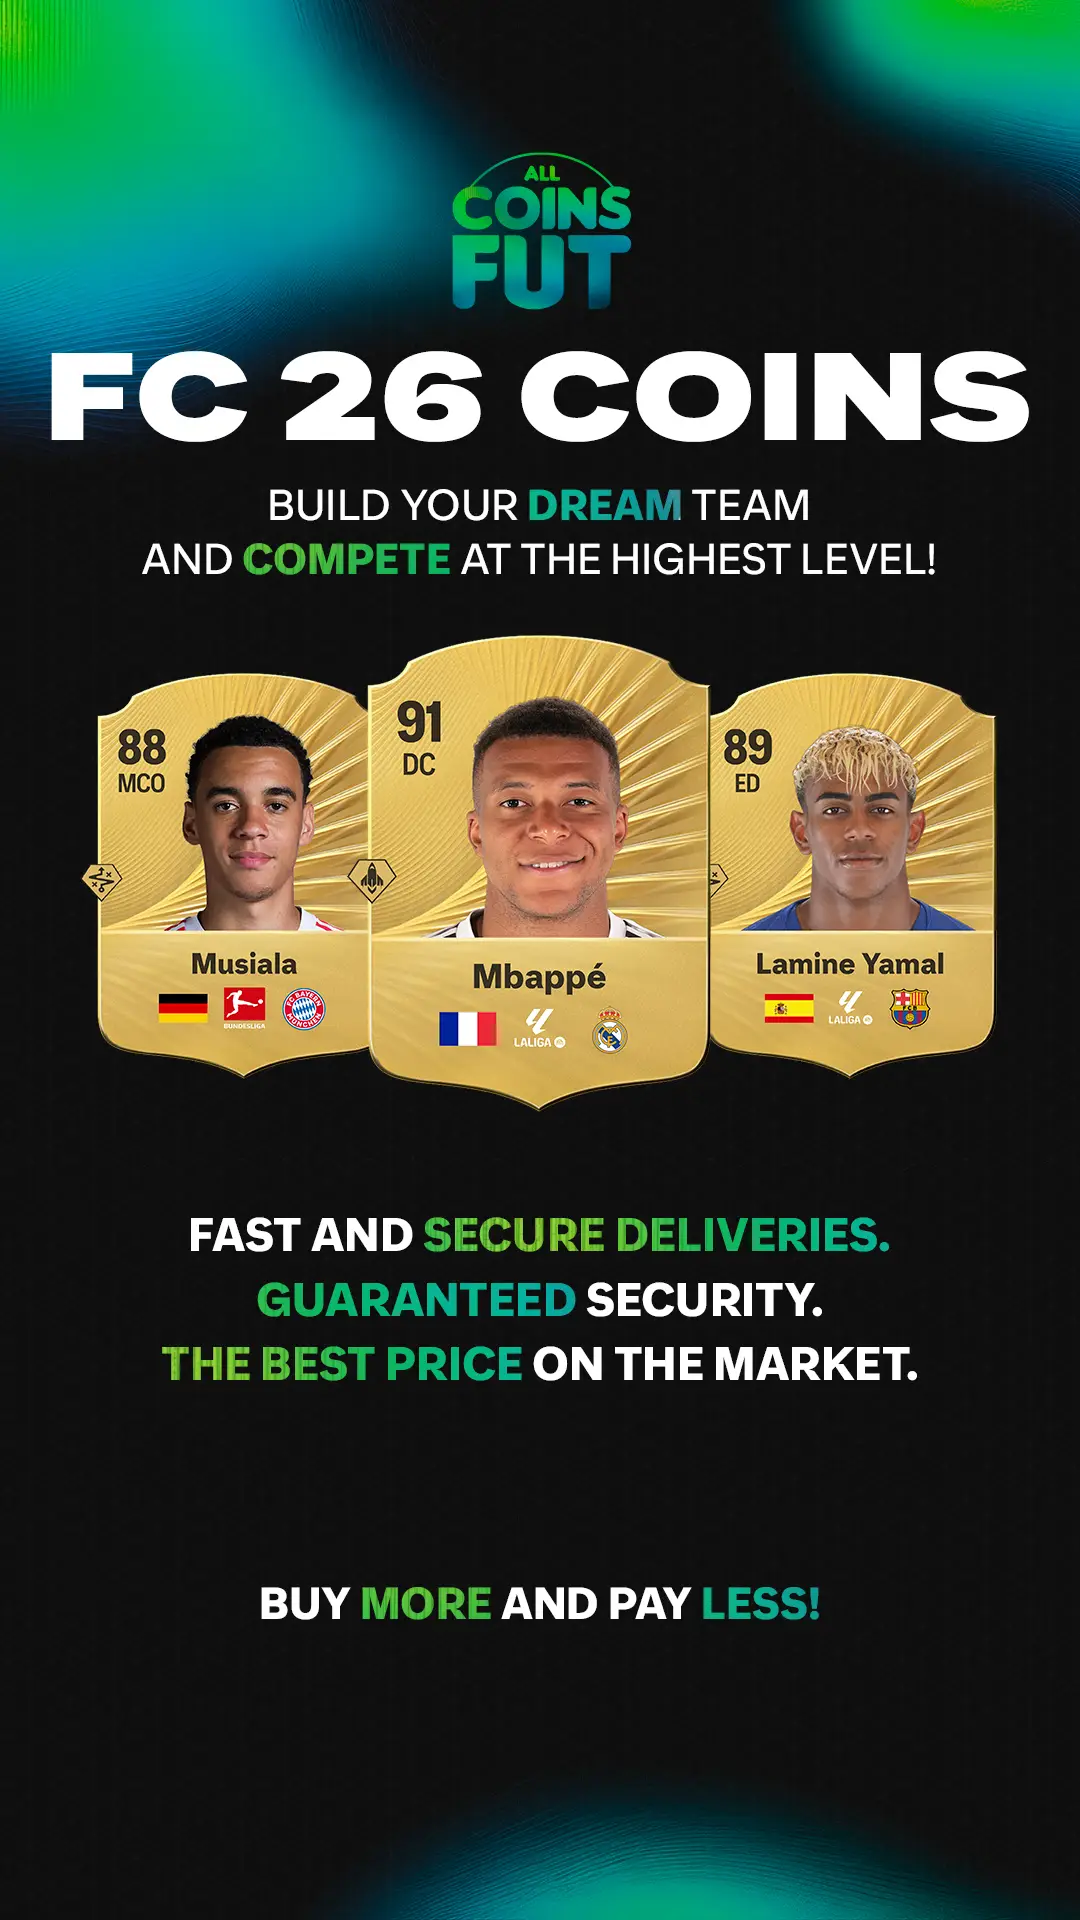
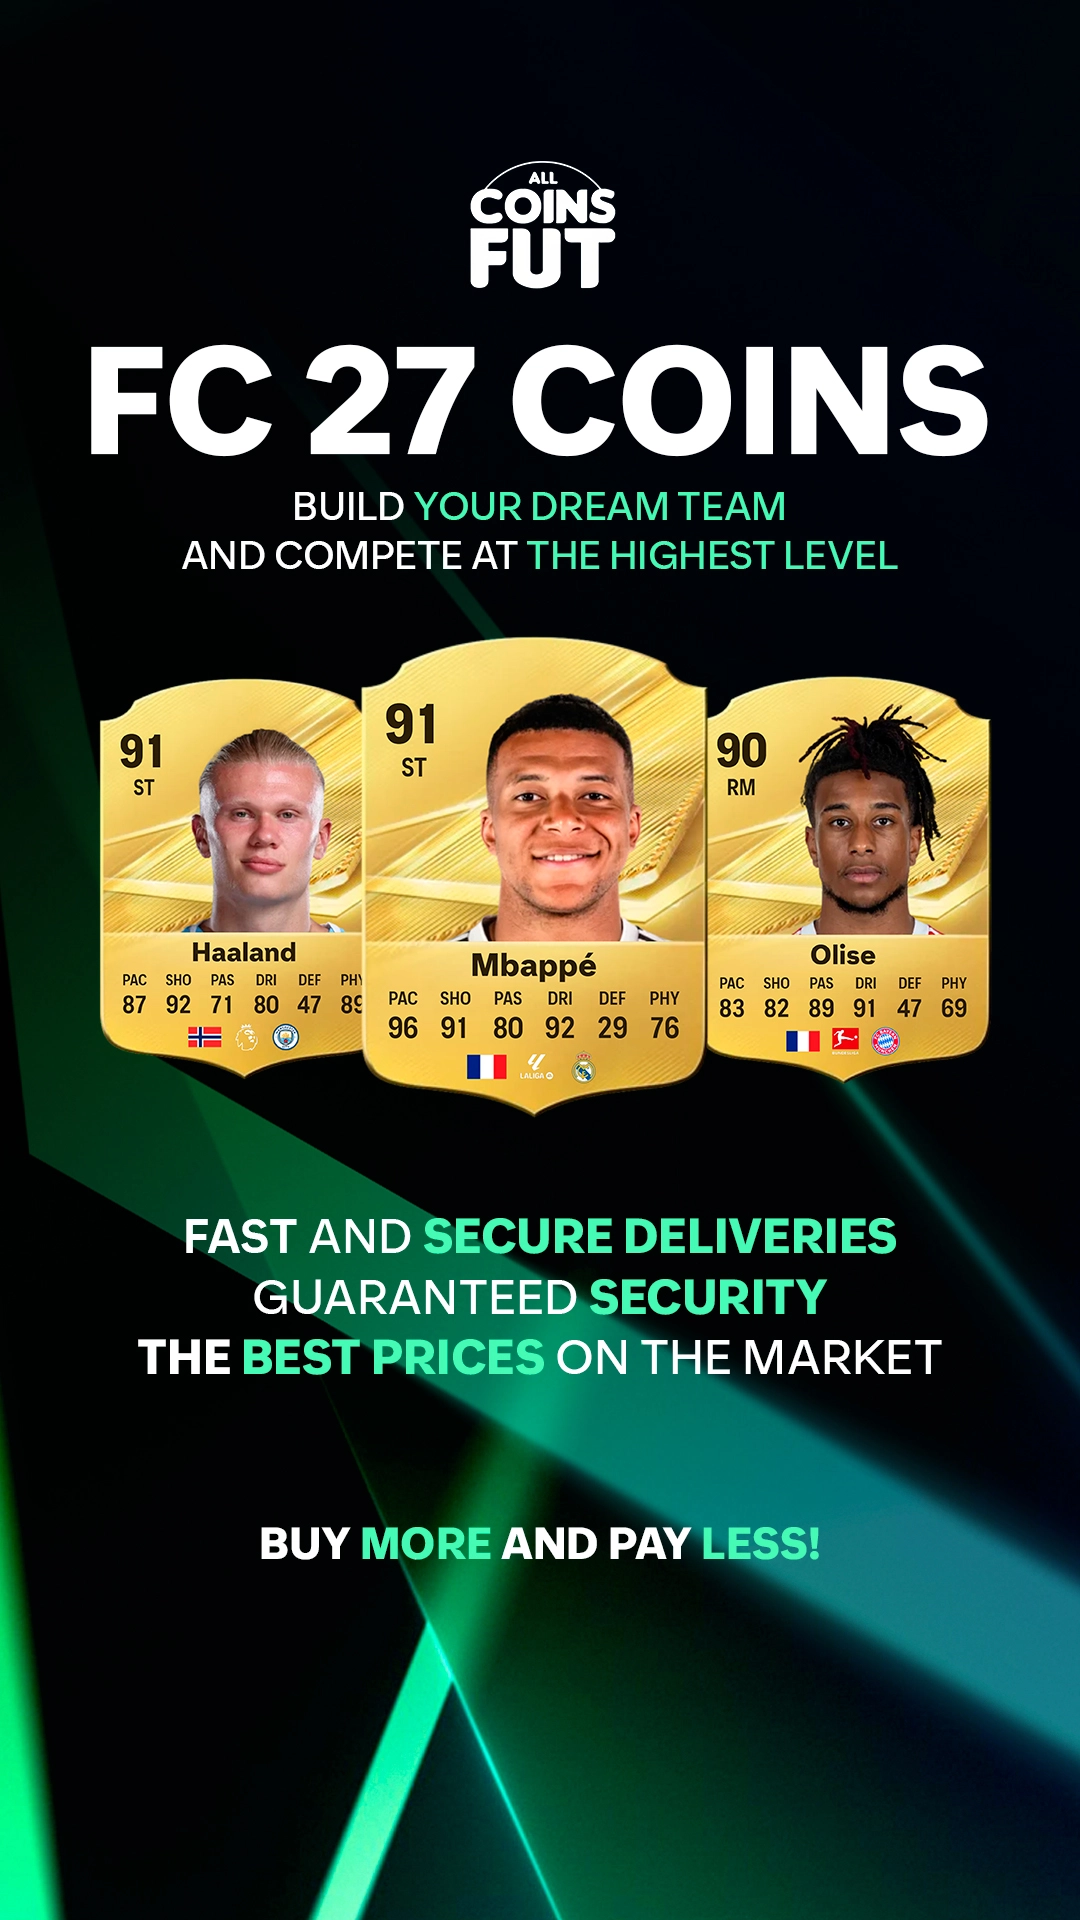
replaced info for FC27

diff --git a/src/Translations.js b/src/Translations.js
@@ -32,7 +32,7 @@ const translations = {
     "answer3": "We offer various payment methods for each country so you can pay in your local currency. To see the available options, you can check the homepage of our website, where most of them are listed, or ask us directly on WhatsApp!",
     
     "faq4": "Is this safe?",
-    "answer4": "We have been selling coins since FIFA 18, with over 8 years of experience. We have completed over 9,000 sales, and every year we deliver nearly 1 billion coins. If you still have doubts, you can also check our 7+ highlighted stories of 'Customers' on our Instagram, where we have 15k+ followers and showcase just some of our sales!",
+    "answer4": "We have been selling coins since FIFA 18. We have completed over 9,000 sales, and every year we deliver nearly 1 billion coins. If you still have doubts, you can also check our 7+ highlighted stories of 'Customers' on our Instagram, where we have 15k+ followers and showcase just some of our sales!",
     
     "faq5": "Do you also sell players?",
     "answer5": "Yes and no. We don’t sell players directly, but we do sell the amount of coins you need to buy the player you want or complete the SBC you’re aiming for. In other words, you can buy coins and then use them to sign the player you’re looking for.",
@@ -67,9 +67,9 @@ const translations = {
     "sellCoins" : "To start selling your coins, please contact us through WhatsApp.",
     "aboutUs" : "About Us",
     "reason1": "+9.000 sales made",
-    "reason2": "+9 years of experience",
-    "reason3": "+3.400 satisfied customers",
-    "reason4": "+1800 Millon coins delivered",
+    "reason2": "+12 years of experience",
+    "reason3": "+3.800 satisfied customers",
+    "reason4": "+2600 Millon coins delivered",
     "paso" : "STEP"
 },
   es: {
@@ -103,7 +103,7 @@ const translations = {
       "answer3": "Ofrecemos diversos métodos de pago para cada país, para que puedas pagar en tu moneda local. Para ver las opciones disponibles, puedes ver el inicio de nuestra página que allí aparecen la mayoría, o preguntándonos directamente en nuestro Whatsapp!",
 
       "faq4": "¿Esto es algo seguro?",
-      "answer4" : "Vendemos monedas desde el FIFA 18, contando con +8 años de experiencia. Tenemos +9000 ventas realizadas, y todos los años entregamos cerca de 1000 millones de monedas. Por si todavía desconfías, también puedes ver nuestras +7 historias destacadas de “Clientes” en nuestro Instagram, donde contamos con +15k de seguidores, y registramos solo algunas de nuestras ventas!",
+      "answer4" : "Vendemos monedas desde el FIFA 18. Tenemos +9000 ventas realizadas, y todos los años entregamos cerca de 1000 millones de monedas. Por si todavía desconfías, también puedes ver nuestras +7 historias destacadas de “Clientes” en nuestro Instagram, donde contamos con +15k de seguidores, y registramos solo algunas de nuestras ventas!",
 
       "faq5": "¿Vendéis también jugadores??",
       "answer5" : "Si pero no. No vendemos jugadores en sí, pero si vendemos la cantidad de monedas que te puede costar ese jugador que deseas o el SBC que quieras hacer. Es decir, puedes comprar monedas para luego con ellas, fichar ese jugador que buscas para tu plantilla.",
@@ -137,9 +137,9 @@ const translations = {
       "sellCoins" : "Para comenzar a vender tus monedas, por favor contactanos a través de WhatsApp.",
       "aboutUs" : "Sobre Nosotros",
       "reason1": "+9.000 ventas realizadas",
-      "reason2": "+9 años de experiencia",
-      "reason3": "+3.400 clientes satisfechos",
-      "reason4": "+1800 millones de monedas entregadas",
+      "reason2": "+12 años de experiencia",
+      "reason3": "+3.800 clientes satisfechos",
+      "reason4": "+2600 millones de monedas entregadas",
       "paso" : "PASO"
   }
 };

diff --git a/src/AboutUs.js b/src/AboutUs.js
@@ -11,7 +11,7 @@ export default function AboutUs() {
 
     document.title = 'Conoce cómo nació nuestro negocio de monedas del fifa. All Coins Fut.';
     if (metaDescription) {
-      metaDescription.setAttribute('content', 'Más de 8 años vendiendo monedas del fifa de forma segura. Conoce cómo empezó todo y por qué miles de jugadores nos eligen cada temporada. Somos All Coins Fut.');
+      metaDescription.setAttribute('content', 'Más de 12 años vendiendo monedas del fifa de forma segura. Conoce cómo empezó todo y por qué miles de jugadores nos eligen cada temporada. Somos All Coins Fut.');
     }
 
     return () => {
@@ -29,7 +29,7 @@ export default function AboutUs() {
           {language === "en" ? "About Us" : "Sobre Nosotros"}
         </p>
         <h1 className="text-6xl font-bold text-center text-p1" data-aos="fade-up">
-          Más de 8 años liderando la venta de monedas del fifa.
+          Más de 12 años liderando la venta de monedas del fifa.
         </h1>
 
       <div className="max-w-3xl text-2xl leading-7 text-center flex items-center justify-center flex-col p-6" data-aos="fade-up">
@@ -37,8 +37,7 @@ export default function AboutUs() {
           <>
             <div className="flex flex-col sm:flex-row w-4/5 items-center justify-center gap-4">
               <p className="mb-4 w-full text-left text-3xl sm:p-8">
-                We started with this project <strong>more than 9 years ago</strong>, in FIFA 18. We started with a PlayStation console, 
-                playing and getting our own coins all day, and selling them privately to friends.
+                We started with this project since <strong>FIFA 18</strong>.
               </p>
 
               <img src="Messi.webp" className="w-3/4 sm:w-64 rounded-xl mb-4" alt="Messi" />
@@ -79,7 +78,7 @@ export default function AboutUs() {
               At All Coins Fut you buy fast, safe and with guaranteed personalized attention.<br/>
               1. Proven experience since FIFA 18<br/>
               2. Direct WhatsApp support always active<br/>
-              3. Over one billion coins delivered<br/>
+              3. Over 2.6 billion coins delivered<br/>
               4. Fast deliveries without complications<br/>
               5. Global community of satisfied customers
             </p>
@@ -126,9 +125,7 @@ export default function AboutUs() {
           <>
           <div className="flex flex-col sm:flex-row w-4/5 items-center justify-start gap-4">
                 <p className="mb-4 w-full text-left text-3xl sm:p-8">
-                  Comenzamos con este proyecto hace <strong>más de 9 años</strong>, en FIFA 18. Todo inició con una PlayStation, 
-                  jugando y consiguiendo nuestras propias monedas durante todo el día, para luego venderlas de manera particular 
-                  a amigos y conocidos.
+                  Comenzamos con este proyecto desde <strong>FIFA 18</strong>.
                 </p>
 
                 <img src="Messi.webp" className="w-3/4 sm:w-64 rounded-xl mb-4" alt="Messi" />
@@ -170,7 +167,7 @@ export default function AboutUs() {
               En All Coins Fut compras rápido, seguro y con atención personalizada garantizada.<br/>
               1. Experiencia comprobada desde FIFA 18<br/>
               2. Atención directa por WhatsApp siempre activa<br/>
-              3. Más de mil millones de monedas entregadas<br/>
+              3. Más de 2.600 millones de monedas entregadas<br/>
               4. Envíos rápidos y sin complicaciones<br/>
               5. Comunidad global de clientes satisfechos
             </p>

diff --git a/src/ShopTutorial.js b/src/ShopTutorial.js
@@ -17,7 +17,7 @@ export default function ShopTutorial() {
             
         {/* Sección para móviles */}
         <div className="md:hidden flex flex-col items-center w-full p-4 h-dvh">
-            <h2 className="mt-4 mb-2 font-black text-black text-4xl text-center text-nowrap">¿Cómo comprar monedas FC 25?</h2>
+            <h2 className="mt-4 mb-2 font-black text-black text-4xl text-center text-nowrap">¿Cómo es el proceso de compra?</h2>
             <div className="flex justify-start gap-4 mb-4">
                 {steps.map((step) => (
                     <button 
@@ -39,7 +39,7 @@ export default function ShopTutorial() {
         <div className="hidden md:flex h-screen w-screen flex-row gap-2 items-center justify-center">
             {/* Sección Izquierda */}
             <section className="w-1/2 h-auto flex flex-col items-center justify-start gap-4 mb-3">
-                <h2 className="font-black text-black text-4xl w-full text-center mt-2">¿Cómo comprar monedas FC 25?</h2>
+                <h2 className="font-black text-black text-4xl w-full text-center mt-2">¿Cómo es el proceso de compra?</h2>
                 {steps.map((step) => (
                     <div 
                         key={step.id} 

diff --git a/src/Payment.js b/src/Payment.js
@@ -18,11 +18,11 @@ export default function Payment() {
           Ventajas de comprar coins fifa con total seguridad.
         </h2>
         <p className="text-xl font-semibold text-center mb-12 text-gray-300">
-          En All Coins Fut garantizamos confianza, velocidad y soporte. Comprar monedas fc 25 con nosotros es fácil, seguro y te da beneficios únicos en cada pedido.<br/>
+          En All Coins Fut garantizamos confianza, velocidad y soporte. Comprar monedas con nosotros es fácil, seguro y te da beneficios únicos en cada pedido.<br/>
           1. Atención personalizada por WhatsApp para resolver cualquier duda<br/>
           2. Entregas rápidas en menos de una hora según disponibilidad<br/>
           3. Sin riesgo de baneo usando métodos 100 % seguros<br/>
-          4. Más de 3.400 clientes satisfechos en todo el mundo<br/>
+          4. Más de 3.800 clientes satisfechos en todo el mundo<br/>
           5. Soporte constante durante todo el proceso de compra
         </p>
       </article>

diff --git a/src/Boosting.js b/src/Boosting.js
@@ -172,7 +172,7 @@ export default function Boosting() {
           Compra fifa coins seguras con entrega inmediata.
         </h1>
         <p className="text-xl font-semibold text-center mb-12 text-gray-300">
-          Ofrecemos fifa coins rápidas, seguras y sin riesgos, con atención personalizada y más de ocho años de experiencia comprobada.
+          Ofrecemos fifa coins rápidas, seguras y sin riesgos, con atención personalizada y más de 12 años de experiencia comprobada.
         </p>
         <a href="#buycoins" className="px-6 py-3 mb-5 text-white duration-75 ease-in-out rounded-full bg-p1 ring-1 ring-white hover:scale-105 sm:mb-0">
           Haz tu pedido ahora mismo.

diff --git a/src/SellCoins.js b/src/SellCoins.js
@@ -67,7 +67,7 @@ export default function SellCoins({openWhatsApp}) {
           </button>
           <div className="max-w-3xl text-2xl leading-7 text-center flex items-center justify-center flex-col p-6" data-aos="fade-up">
             <h2 className="text-6xl font-bold text-center text-p1 mt-12">
-              ¿Cómo funciona el proceso para vender tus monedas fifa 24?
+              ¿Cómo funciona el proceso para vender tus monedas?
             </h2>
             <p className="text-xl font-semibold text-center mb-12 text-gray-300">
               Vender tus monedas de fifa con nosotros es fácil, seguro y rápido. Solo sigue estos pasos y recibirás tu pago en minutos.<br/>
